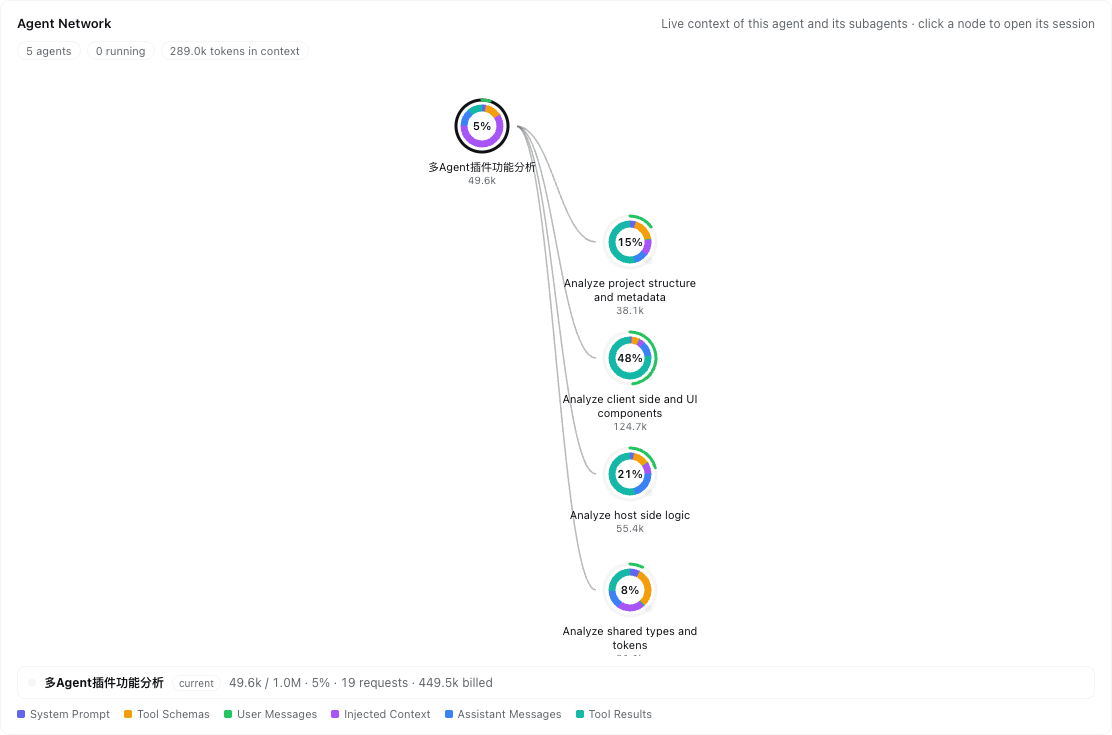
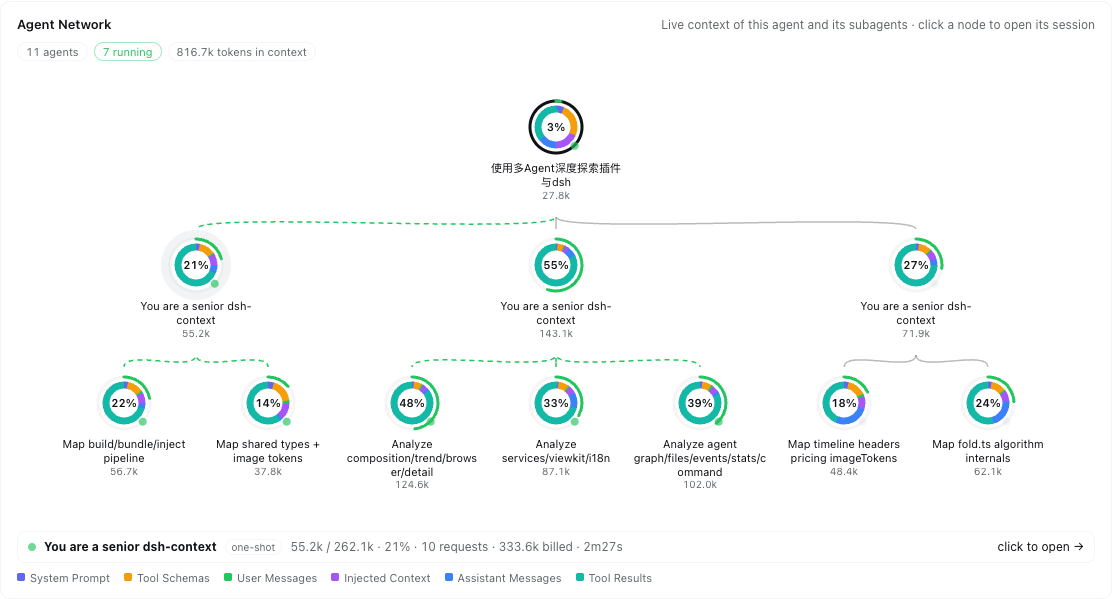
refactor: relayout the Agent Network card as a top-down tidy tree
The depth-column layout wasted the wide card: the root monopolized a
column while siblings stacked vertically. Now each depth level is one
row, leaves claim horizontal slots, and parents center over their
children — breadth grows wide, only generational depth grows tall.
Links exit a parent below its caption zone and enter the child's top,
so a connector never crosses a (freely wrapping) label.

diff --git a/src/client/agentTree.ts b/src/client/agentTree.ts
@@ -103,13 +103,17 @@ export interface AgentForest {
 /** The card stays readable up to this many nodes; the rest folds into an overflow note. */
 export const AGENT_TREE_LIMIT = 25
 
-/** Donut geometry: node ring radii and stage spacing (SVG units). */
+/** Donut geometry: node ring radii (SVG units). */
 export const AGENT_NODE_R = 26
 export const AGENT_INNER_R = 18
-const COL_W = 148
-/* Row pitch leaves room under each node for a two-line wrapped caption plus the tokens line. */
-const ROW_H = 116
-/* Side pad ≥ half the caption width (136/2) plus margin, so wrapped labels never clip at the SVG edge. */
+/* Horizontal pitch between leaf slots (the 136px caption plus gutter). */
+const SLOT_W = 144
+/* Vertical pitch between depth levels: node radius + caption zone (up to 3
+   wrapped lines + the tokens line) + the edge band below it. */
+const LEVEL_H = 138
+/* Bottom edge of a node cell — links exit here, below the caption zone, so a
+   connector never crosses a label. */
+const CELL_H = AGENT_NODE_R + 64
 const PAD_X = 78
 const PAD_Y = 56
 
@@ -329,15 +333,55 @@ export interface AgentLayout {
 }
 
 /**
- * Tidy tree layout: depth columns left → right, DFS pre-order rows top →
- * bottom (a parent always sits above its children, and every row is occupied
- * by exactly one node, so links never stack).
+ * Tidy top-down tree layout: one row per depth level, siblings spread
+ * horizontally in DFS order (leaf slots), parents centered over their
+ * children — the wide card's natural shape, where a family's breadth (not
+ * its depth) is what grows. Links exit a parent at its cell bottom (below
+ * the caption zone) and enter the child at its top, so a connector never
+ * crosses a label.
  */
 export function layoutForest(forest: AgentForest): AgentLayout {
-  const points: AgentPoint[] = forest.nodes.map((node, index) => ({
+  // Children lists in DFS order (nodes are DFS pre-order, so plain iteration appends in visit order).
+  const childrenOf = new Map<string, AgentNode[]>()
+  for (const n of forest.nodes) {
+    if (n.parentId === undefined) continue
+    const kids = childrenOf.get(n.parentId) ?? []
+    kids.push(n)
+    childrenOf.set(n.parentId, kids)
+  }
+
+  // Tidy x: leaves claim successive slots; internal nodes center over their children.
+  const slotOf = new Map<string, number>()
+  let leafSlots = 0
+  const place = (node: AgentNode): number => {
+    const kids = childrenOf.get(node.id) ?? []
+    if (kids.length === 0) {
+      const slot = leafSlots
+      leafSlots++
+      slotOf.set(node.id, slot)
+      return slot
+    }
+    let first = 0
+    let last = 0
+    kids.forEach((kid, index) => {
+      const slot = place(kid)
+      if (index === 0) first = slot
+      last = slot
+    })
+    const slot = (first + last) / 2
+    slotOf.set(node.id, slot)
+    return slot
+  }
+  /* v8 ignore next 1 -- a forest always holds at least the (possibly
+     synthesized) current node. */
+  if (forest.nodes.length > 0) place(forest.nodes[0])
+
+  const points: AgentPoint[] = forest.nodes.map(node => ({
     id: node.id,
-    x: PAD_X + node.depth * COL_W,
-    y: PAD_Y + index * ROW_H,
+    /* v8 ignore next 1 -- place() visits every node: the forest is exactly
+       the root's subtree by construction. */
+    x: PAD_X + (slotOf.get(node.id) ?? 0) * SLOT_W,
+    y: PAD_Y + node.depth * LEVEL_H,
     depth: node.depth,
   }))
   const pointOf = new Map(points.map(p => [p.id, p]))
@@ -352,17 +396,17 @@ export function layoutForest(forest: AgentForest): AgentLayout {
     links.push({
       to: edge.to,
       running: runningIds.has(edge.to),
-      x1: from.x + AGENT_NODE_R + 8,
-      y1: from.y,
-      x2: to.x - AGENT_NODE_R - 8,
-      y2: to.y,
+      x1: from.x,
+      y1: from.y + CELL_H,
+      x2: to.x,
+      y2: to.y - AGENT_NODE_R - 10,
     })
   }
   const maxDepth = points.reduce((max, p) => Math.max(max, p.depth), 0)
   return {
-    width: PAD_X * 2 + maxDepth * COL_W,
-    // Bottom pad covers the node radius plus the label/tokens text under it.
-    height: PAD_Y * 2 + Math.max(0, points.length - 1) * ROW_H + 10,
+    width: PAD_X * 2 + Math.max(0, leafSlots - 1) * SLOT_W,
+    // The deepest level still carries its full caption cell below the node.
+    height: PAD_Y + maxDepth * LEVEL_H + CELL_H + 28,
     points,
     links,
   }

diff --git a/tests/client/agentTree.spec.ts b/tests/client/agentTree.spec.ts
@@ -309,30 +309,39 @@ describe('layoutForest', () => {
     }
   }
 
-  test('single node: no links, square stage', () => {
+  test('single node: no links, minimal stage', () => {
     const layout = layoutForest(forestOf([['root']]))
     assert.equal(layout.points.length, 1)
     assert.equal(layout.points[0].depth, 0)
     assert.equal(layout.links.length, 0)
     assert.equal(layout.width, 156)
-    assert.equal(layout.height, 122)
+    assert.equal(layout.height, 56 + 90 + 28)
   })
 
-  test('columns follow depth, rows follow DFS order, links join parent to child', () => {
+  test('levels follow depth, siblings claim leaf slots, parents center over children', () => {
     const layout = layoutForest(forestOf([['root'], ['a', 'root'], ['b', 'root'], ['g', 'a']]))
     const pointOf = new Map(layout.points.map(p => [p.id, p]))
-    assert.equal(pointOf.get('root')?.depth, 0)
-    assert.equal(pointOf.get('g')?.depth, 2)
-    assert.equal(layout.points[0].y < layout.points[3].y, true)
-    assert.equal(layout.links.length, 3)
+    // Two leaf slots (g under a, then b); root centers between them.
+    assert.equal(pointOf.get('g')?.x, 78)
+    assert.equal(pointOf.get('a')?.x, 78)
+    assert.equal(pointOf.get('b')?.x, 78 + 144)
+    assert.equal(pointOf.get('root')?.x, 78 + 72)
+    // One row per depth level.
+    assert.equal(pointOf.get('root')?.y, 56)
+    assert.equal(pointOf.get('a')?.y, 56 + 138)
+    assert.equal(pointOf.get('g')?.y, 56 + 2 * 138)
+    // Links exit the parent's cell bottom and enter the child's top.
     const linkG = layout.links.find(l => l.to === 'g')
     assert.ok(linkG !== undefined)
-    assert.equal(linkG.x1, pointOf.get('a')?.x as number + AGENT_NODE_R + 8)
-    assert.equal(linkG.x2, (pointOf.get('g')?.x as number) - AGENT_NODE_R - 8)
+    assert.equal(linkG.x1, pointOf.get('a')?.x)
+    assert.equal(linkG.y1, (pointOf.get('a')?.y as number) + 90)
+    assert.equal(linkG.x2, pointOf.get('g')?.x)
+    assert.equal(linkG.y2, (pointOf.get('g')?.y as number) - AGENT_NODE_R - 10)
     assert.equal(linkG.running, false)
     assert.equal(layout.links.find(l => l.to === 'b')?.running, true)
-    assert.equal(layout.width, 156 + 2 * 148)
-    assert.equal(layout.height, 122 + 3 * 116)
+    assert.equal(layout.links.length, 3)
+    assert.equal(layout.width, 156 + 144)
+    assert.equal(layout.height, 56 + 2 * 138 + 90 + 28)
   })
 })
 

diff --git a/src/client/components/agentGraph.tsx b/src/client/components/agentGraph.tsx
@@ -37,7 +37,7 @@ export interface AgentGraphProps {
 
 /** Caption box under a node: wraps freely so full agent names always show. */
 const CAPTION_W = 136
-const CAPTION_H = 78
+const CAPTION_H = 60
 
 /** Occupancy-ring color by fill ratio (no window → the neutral track color). */
 export function ringColorOf(pct: number | null): string {
@@ -140,7 +140,7 @@ export function makeAgentGraph(
               <path
                 key={link.to}
                 className={'lc-agents-link' + (link.running ? ' lc-agents-link-on' : '')}
-                d={`M ${link.x1} ${link.y1} C ${link.x1 + 36} ${link.y1}, ${link.x2 - 36} ${link.y2}, ${link.x2} ${link.y2}`}
+                d={`M ${link.x1} ${link.y1} C ${link.x1} ${link.y1 + 18}, ${link.x2} ${link.y2 - 18}, ${link.x2} ${link.y2}`}
                 fill="none"
               />
             ))}
